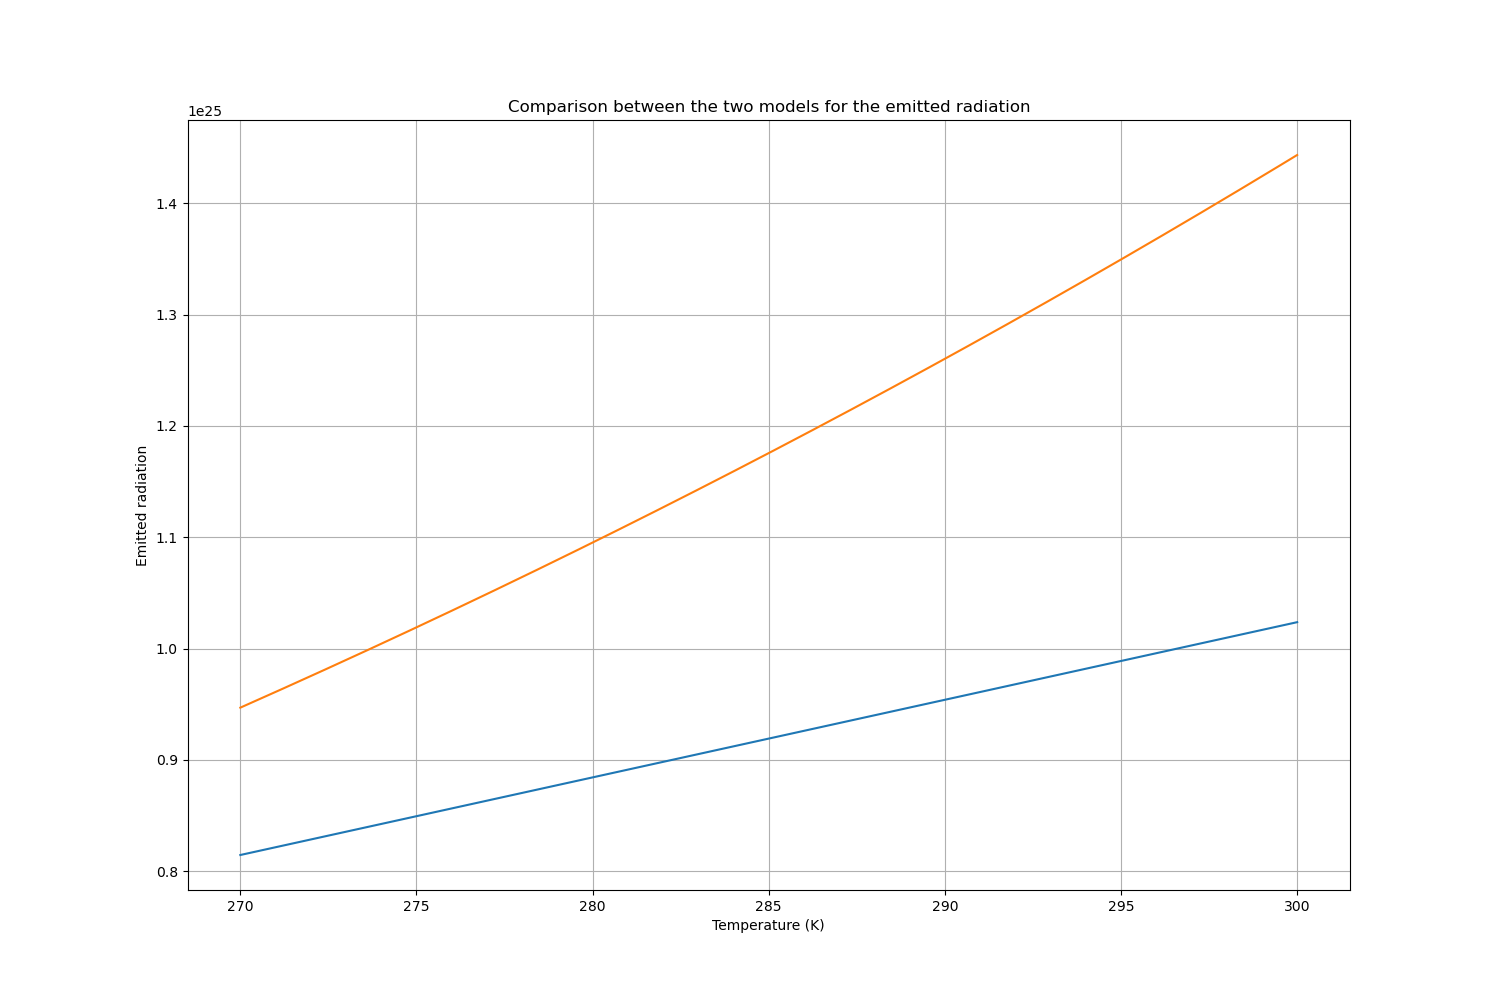
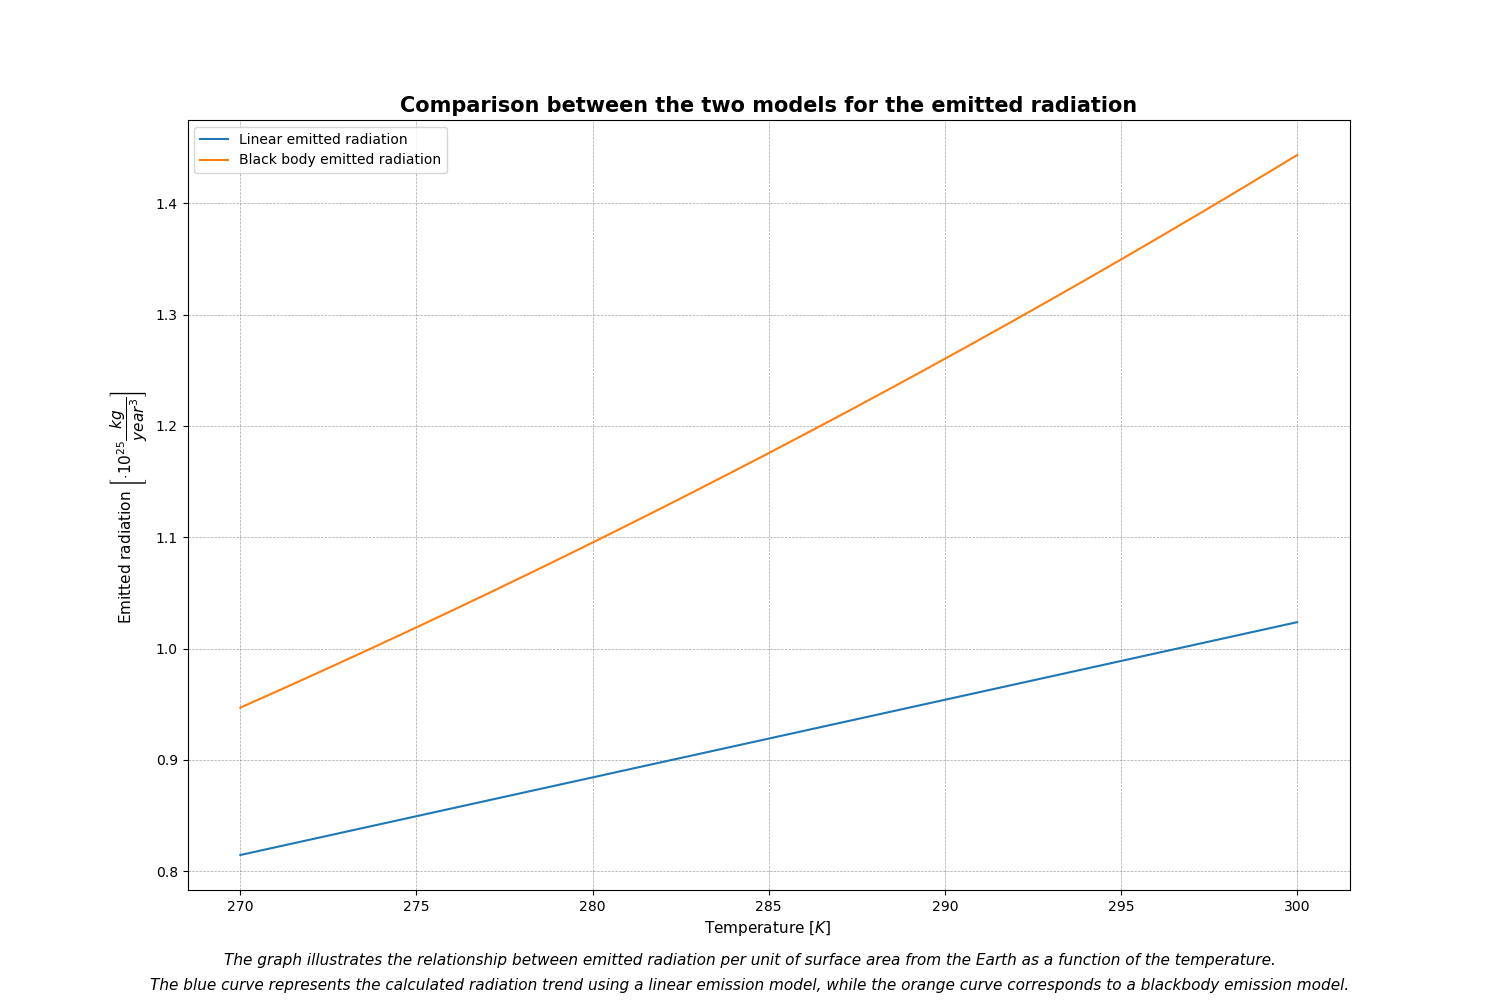
Refactored emission comparison plot function in 'plots.py'
Refactored the function responsible for generation the emission models comparison plot for clarity and improved visualization.
The changes I have made include:
1. Renamed the plot function to "emission_models_comparison_plot".
2. Added explicit units to axis labels for temperature and emitted radiation.
3. Introduced a legend to clarify the meaning of the plotted curves.
4. Added a descriptive caption explaining the purpose of the graph.
5. Enhanced the aesthetic aspects of the plot.

These changes aim to make the graph more informative.

diff --git a/plots.py b/plots.py
@@ -1,5 +1,6 @@
 import numpy as np
 import matplotlib.pyplot as plt
+from matplotlib.ticker import ScalarFormatter
 import os
 import stochastic_resonance
 import configparser
@@ -18,32 +19,35 @@ evolution_towards_steady_states_destination = config['paths'].get('evolution_tow
 temperature_evolution_plot_destination = config['paths'].get('temperature_evolution_plot')
 SNR_destination = config['paths'].get('SNR_plot')
 
-def Plot_Emission_Models():
+def emission_models_comparison_plot():
 
     """
     This function plots the two models for the emitted radiation
     """
+
     T_start = 270
     T_end = 300
     num_points = 300
 
-    T = np.linspace(T_start, T_end, num_points)
+    T = np.linspace(T_start, T_end, num = num_points)
     emitted_radiation_linear_values = [stochastic_resonance.emitted_radiation(Ti, model = 'linear') for Ti in T]
     emitted_radiation_black_body_values = [stochastic_resonance.emitted_radiation(Ti, model = 'black body') for Ti in T]
 
     f = plt.figure(figsize=(15, 10))
     plt.plot(T, emitted_radiation_linear_values, label='Linear emitted radiation')
     plt.plot(T, emitted_radiation_black_body_values, label='Black body emitted radiation')
-    plt.grid(True)
-    plt.xlabel('Temperature (K)')
-    plt.ylabel('Emitted radiation')
-    #plt.legend()
-    plt.title('Comparison between the two models for the emitted radiation')
+    plt.grid(True, linestyle='--', linewidth=0.5, color='gray', alpha=0.7)
+    plt.xlabel(r'Temperature $ \left[ K \right] $ ', fontsize=11)
+    plt.ylabel(r'Emitted radiation $ \left[ \dot 10^{25} \dfrac{kg}{year^3} \right]$ ', fontsize=11)
+    plt.legend()
+    plt.title('Comparison between the two models for the emitted radiation', fontsize = 15, fontweight = 'bold')
+    caption = """The graph illustrates the relationship between emitted radiation per unit of surface area from the Earth as a function of the temperature.
+    \nThe blue curve represents the calculated radiation trend using a linear emission model, while the orange curve corresponds to a blackbody emission model."""
+    plt.figtext(0.5, 0.01, caption , horizontalalignment='center', fontsize=11, linespacing = 0.8, style = 'italic' )
+
+    plt.gca().get_yaxis().get_offset_text().set_visible(False)
 
     plt.savefig(radiation_destination)
-
-    plt.show()
-
 
 def Plot_F():
 
@@ -148,7 +152,7 @@ def SNR_plot():
     plt.savefig(SNR_destination)
     plt.show()
 
-Plot_Emission_Models()
+emission_models_comparison_plot()
 Plot_F()
 Plot_evolution_towards_steady_states()
 plot_simulate_ito()
